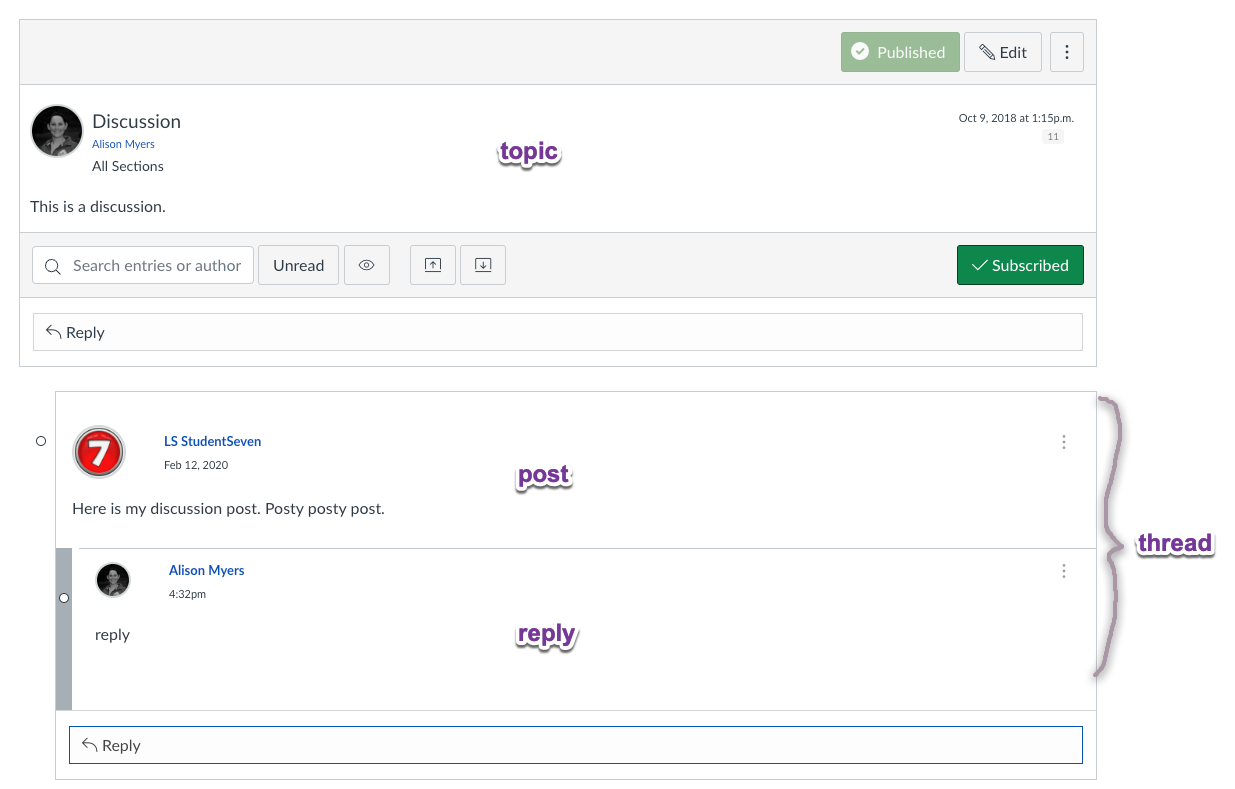
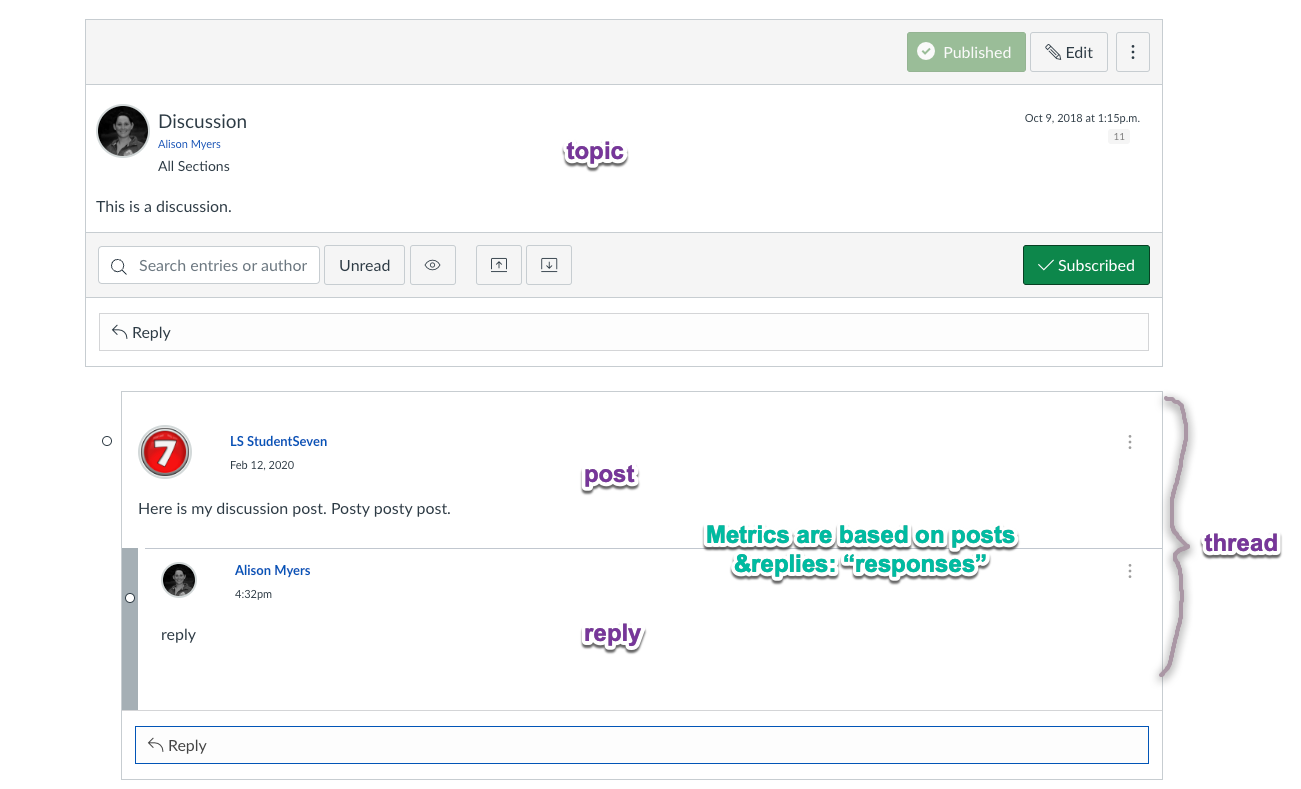
use 'response' naming conventions and descriptions

diff --git a/writeSummaryToCSV.js b/writeSummaryToCSV.js
@@ -21,12 +21,12 @@ const writeSummaryToCSV = (courseId, data) => {
     'topic_author_id',
     'topic_author_name',
     'topic_posted_at',
-    'number_of_posts',
-    'average_posts_per_author',
-    'median_posts_word_count',
-    'average_days_to_post_from_posted_at',
-    'first_reply_timestamp',
-    'average_days_to_post_from_first_response'
+    'number_of_responses',
+    'average_responses_per_author',
+    'median_responses_word_count',
+    'average_days_to_respond_from_posted_at',
+    'first_response_timestamp',
+    'average_days_to_respond_from_first_response'
   ]
 
   // Write the headers to the CSV file
@@ -41,11 +41,11 @@ const writeSummaryToCSV = (courseId, data) => {
       topic_author_id: discussion.topicAuthorId,
       topic_author_name: escapeComment(discussion.topicAuthorName),
       topic_posted_at: convertToPacificTime(toDateTime(discussion.topicPostedAt)),
-      number_of_posts: formatNumberOutput(summary.numberOfPosts),
-      average_posts_per_author: formatNumberOutput(summary.averagePostsPerAuthor),
+      number_of_responses: formatNumberOutput(summary.numberOfPosts),
+      average_responses_per_author: formatNumberOutput(summary.averagePostsPerAuthor),
       median_word_count: formatNumberOutput(summary.medianWordCount),
       average_time_to_post_from_reference_days: formatNumberOutput(summary.averageTimeDiffFromReference),
-      first_reply_timestamp: convertToPacificTime(summary.firstReplyTimestamp),
+      first_response_timestamp: convertToPacificTime(summary.firstReplyTimestamp),
       average_time_to_post_from_first_days: formatNumberOutput(summary.averageTimeDiffFromFirst)
 
     }

diff --git a/writeToCSV.js b/writeToCSV.js
@@ -15,15 +15,13 @@ const writeToCSV = (courseId, data) => {
     'topic_author_name',
     'topic_created_at',
     'topic_posted_at',
-    'topic_created_at',
-    'topic_posted_at',
-    'post_author_id',
-    'post_author_name',
-    'post_id',
-    'post_parent_id',
-    'post_message',
-    'post_likes',
-    'post_timestamp'
+    'response_author_id',
+    'response_author_name',
+    'response_id',
+    'response_parent_id',
+    'response_message',
+    'response_likes',
+    'response_timestamp'
   ]
 
   // Write the headers to the CSV file
@@ -44,13 +42,13 @@ const writeToCSV = (courseId, data) => {
       discussion.replies.flat().forEach(post => {
         const postDetails = {
           ...topicDetails,
-          post_author_id: post.postAuthorId,
-          post_author_name: escapeComment(post.postAuthorName),
-          post_id: post.postId,
-          post_parent_id: post.postParentId,
-          post_message: stripHTML(escapeComment(post.postMessage)),
-          post_likes: post.postLikes,
-          post_timestamp: convertToPacificTime(toDateTime(post.postTimestamp))
+          response_author_id: post.postAuthorId,
+          response_author_name: escapeComment(post.postAuthorName),
+          response_id: post.postId,
+          response_parent_id: post.postParentId,
+          response_message: stripHTML(escapeComment(post.postMessage)),
+          response_likes: post.postLikes,
+          response_timestamp: convertToPacificTime(toDateTime(post.postTimestamp))
         }
         appendRow(csvPath, Object.values(postDetails))
       })

diff --git a/README.md b/README.md
@@ -7,10 +7,6 @@
 ### Data
 > `{course_id}-discussion.csv`  
 
-
-### Data
-> `{course_id}-discussion.csv`  
-
 This project pulls data via the Canvas API the discussions for the specified Canvas course(s) and exports the results as CSV. The columns exported are:
 * 'topic_id',
 * 'topic_title',
@@ -19,17 +15,15 @@ This project pulls data via the Canvas API the discussions for the specified Can
 * 'topic_author_name',
 * 'topic_created_at',
 * 'topic_posted_at',
-* 'topic_created_at',
-* 'topic_posted_at',
-* 'post_author_id',
-* 'post_author_name',
-* 'post_id',
-* 'post_parent_id',
-* 'post_message',
-* 'post_likes',
-* 'post_timestamp'
+* 'response_author_id',
+* 'response_author_name',
+* 'response_id',
+* 'response_parent_id',
+* 'response_message',
+* 'response_likes',
+* 'response_timestamp'
 
-Where a `topic` corresponds to a `discussion_topic` and `post` refers to all replies to the `discussion_topic`. If a `discussion_topic` has no posts then you will see the `topic_` columns filled with no corresponding `post_` data. A `post` may have a `post_parent_id ` if it is part of a threaded response.
+Where a `topic` corresponds to a `discussion_topic` and `response` refers to all posts and replies to the `discussion_topic`. If a `discussion_topic` has no posts or replies then you will see the `topic_` columns filled with no corresponding `response_` data. A `response` may have a `response_parent_id` if it is part of a threaded response (i.e is a `reply`).
 
 ### Summary Data
 > `{course_id}-discussion-summary.csv`
@@ -41,15 +35,15 @@ We have calculated summary metrics for each topic. The csv with the summary info
 * 'topic_author_id',
 * 'topic_author_name',
 * 'topic_posted_at',
-* 'number_of_posts': the total number of posts and replies in the topic
-* 'average_posts_per_author': the average posts per author (does not include enrollments with no posts)
-* 'median_posts_word_count': the median word count for all posts and replies to the topic
-* 'average_days_to_post_from_posted_at': the average number of days to post from the topic posted_at date. A 'day' is calculated by date, not hours
-* 'first_reply_timestamp': the timestamp of the first post
-* 'average_days_to_post_from_first_response': the average number of days to post from first topic response. A 'day' is calculated by date, not hours
+* 'number_of_responses': the total number of posts and replies in the topic
+* 'average_responses_per_author': the average posts per author (does not include enrollments with no posts)
+* 'median_responses_word_count': the median word count for all posts and replies to the topic
+* 'average_days_to_respond_from_posted_at': the average number of days to post from the topic posted_at date. A 'day' is calculated by date, not hours
+* 'first_response_timestamp': the timestamp of the first post
+* 'average_days_to_respond_from_first_response': the average number of days to post from first topic response. A 'day' is calculated by date, not hours
 
 
-Where a `post` is a response to a topic, and a `reply` is a reply to the post. 
+Where a `post` is a direct response to a topic, and a `reply` is a reply to the post. Together the `posts` and `replies` are `responses`. 
 
 ![alt text](image-1.png)
 
@@ -58,7 +52,7 @@ Where a `post` is a response to a topic, and a `reply` is a reply to the post.
 > For instance, for the topic discussion summary, if the topic was posted_at '2024-01-02 12pm' and there was 1 response at '2024-01-03 4pm', then the average_days_to_post would be 1. If the topic as was posted_at '2024-01-01' and all replies were the same day ('2024-01-01') then the average_days_to_post would be 0. 
 
 - `does not include enrollments with no posts`
-> The calculations are only based on posts or authors who contribute, not expected posts or number of authors; for instance, in a class of 10 students, if 5 students made 1 post each and 5 students made 0 posts the `average_posts_per_author` is 1 (mean: 1,1,1,1,1), **not** 0.5 (mean: 1,1,1,1,1,0,0,0,0,0). 
+> The calculations are only based on posts or authors who contribute, not expected posts or number of authors; for instance, in a class of 10 students, if 5 students made 1 post each and 5 students made 0 posts the `average_responses_per_author` is 1 (mean: 1,1,1,1,1), **not** 0.5 (mean: 1,1,1,1,1,0,0,0,0,0). 
 
 ## Getting Started
 These instructions will get you a copy of the project up and running on your local machine for use with your own API tokens and Canvas domains.
@@ -93,8 +87,7 @@ These instructions will get you a copy of the project up and running on your loc
 
 ## Authors
 
-* [justin0022](https://github.com/justin0022) -
-**Justin Lee** &lt;justin.lee@ubc.ca&gt;
+* [justin0022](https://github.com/justin0022) - **Justin Lee** &lt;justin.lee@ubc.ca&gt;
 
 ## License
 
